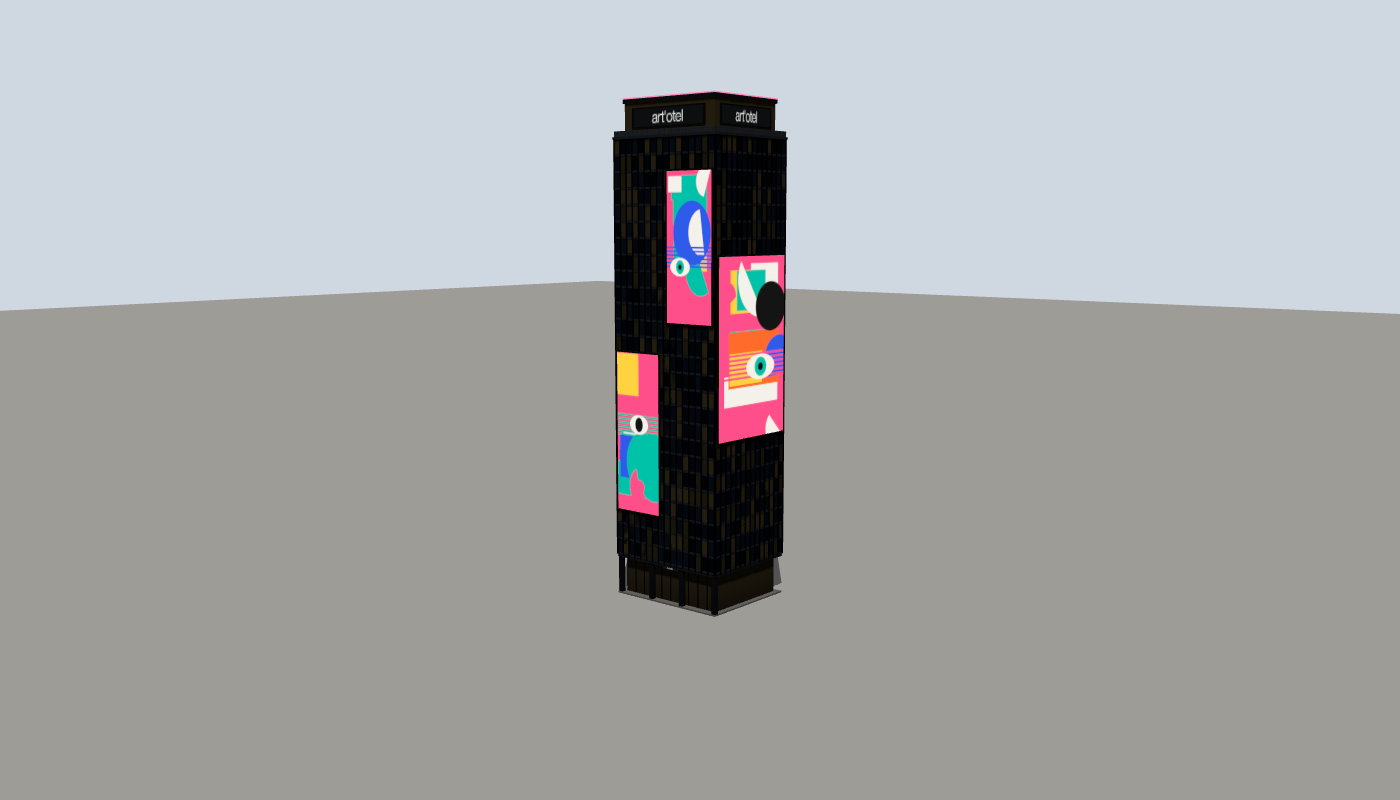
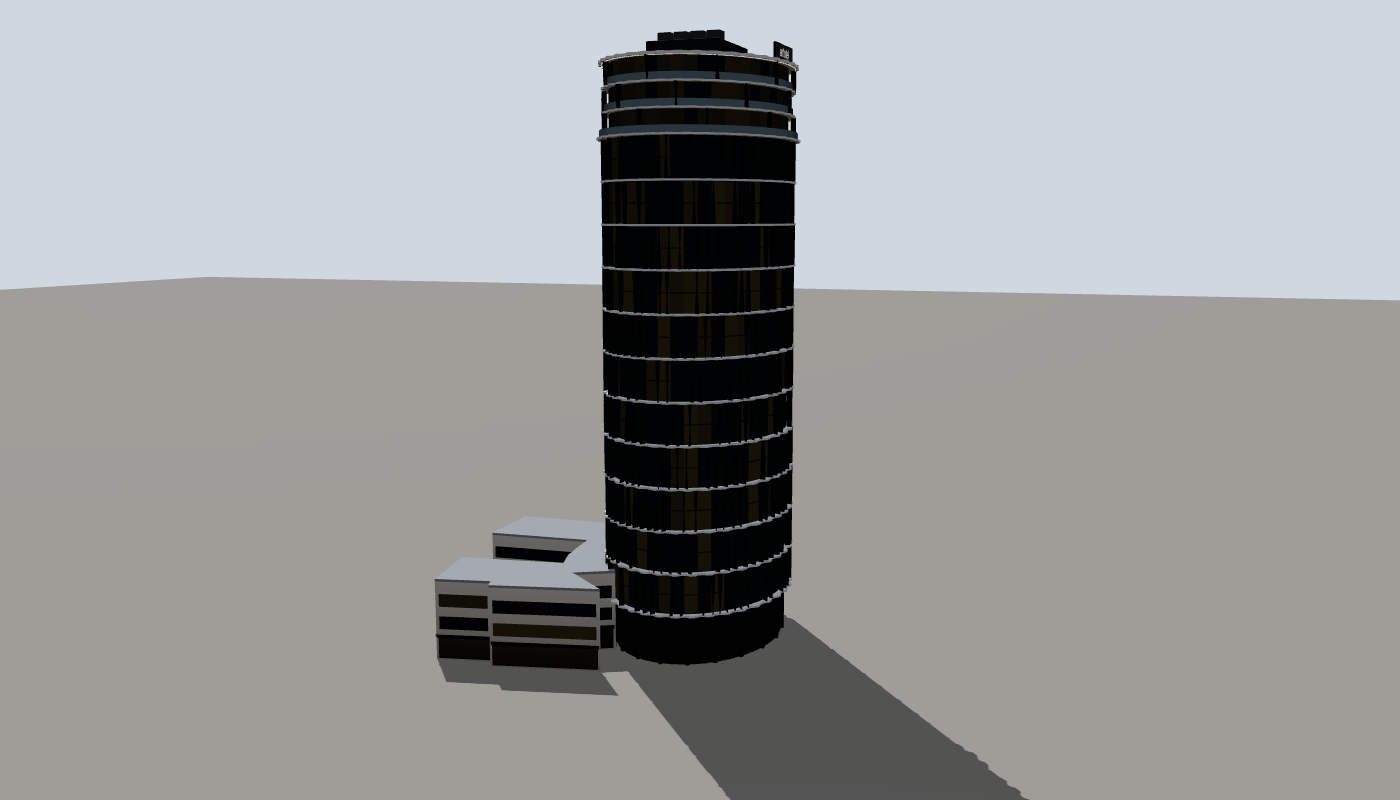
web: art'otel rebuilt as the real oval cogwheel tower (OSM footprint + podium wing, toothed shelves, twisted fins, lit at night)
Claude-Session: https://claude.ai/code/session_01QqxjMkKzJ4sVqYtr9ae61X

Changed region(s): [[0.3071, 0.0312, 0.7371, 1.0], [0.6143, 0.3438, 1.0, 0.4062], [0.0, 0.3438, 0.3686, 0.4062]]

diff --git a/apps/web/src/world/models/landmarks.ts b/apps/web/src/world/models/landmarks.ts
@@ -2,14 +2,15 @@
 // as a tiling texture, canvas signs). Each is recognisable from the street camera:
 //   XOYO        – Cowper St club: dark brick warehouse, black ground floor, big lit X O Y O letters, steel doors,
 //                 queue barriers on the pavement.
-//   art'otel    – Old St / Great Eastern St hotel tower: dark finned façade, huge bold art panels, lit crown sign.
+//   art'otel    – Old St / Great Eastern St: oval 26-storey "cogwheel" tower, toothed aluminium shelves, twisted
+//                 black fins, glazed top floors, crown sign, 3-storey podium wing (OSM footprint).
 //   Encode Hub  – 41 Pitfield St: converted Victorian brick building, sash windows, lit ENCODE HUB fascia band.
 //   Boxpark     – stacked black shipping containers, glazed shopfronts, upper terrace with lights, big sign.
 //   Old Street  – the roundabout island: sunken tube entrances with roundels, glass canopies, new entrance
 //                 pavilion, trees, cycle dock, digital screens.
 // Frame: origin at the footprint centre on the ground, street face toward +z, metres. Every model's name is a
 // stable `landmark-*` id (interiors / quick travel look the group up by name).
-import { Shape } from "three";
+import { BoxGeometry, ExtrudeGeometry, Shape, Vector2 } from "three";
 import { rng, type Rng } from "../../mock/rng";
 import { Kit, type HeroModel } from "./kit";
 import { label } from "./materials";
@@ -166,116 +167,161 @@ export function xoyo(): HeroModel {
 
 // ------------------------------------------------------------------------------------------------- art'otel
 
-function mural(seed: number, palette: string[]) {
-  return (c: CanvasRenderingContext2D, w: number, h: number) => {
-    const r = rng(seed);
-    c.fillStyle = palette[0];
-    c.fillRect(0, 0, w, h);
-    // big bold blocks
-    for (let i = 0; i < 7; i++) {
-      c.fillStyle = pick(r, palette);
-      const bw = w * (0.3 + r() * 0.6), bh = h * (0.08 + r() * 0.25);
-      c.fillRect(r() * (w - bw), r() * (h - bh), bw, bh);
-    }
-    // circles and half-moons
-    for (let i = 0; i < 5; i++) {
-      c.fillStyle = pick(r, palette);
-      c.beginPath();
-      const rr = w * (0.12 + r() * 0.3);
-      c.arc(r() * w, r() * h, rr, r() * Math.PI, r() * Math.PI + Math.PI * (1 + r()));
-      c.fill();
-    }
-    // stripes
-    c.fillStyle = pick(r, palette);
-    const sy = r() * h * 0.7;
-    for (let i = 0; i < 6; i++) c.fillRect(0, sy + i * h * 0.025, w, h * 0.012);
-    // the eye motif
-    const ex = w * (0.3 + r() * 0.4), ey = h * (0.25 + r() * 0.5), er = w * 0.22;
-    c.fillStyle = "#f6f2e8";
-    c.beginPath();
-    c.ellipse(ex, ey, er, er * 0.55, 0, 0, Math.PI * 2);
-    c.fill();
-    c.fillStyle = pick(r, palette.slice(1));
-    c.beginPath();
-    c.arc(ex, ey, er * 0.42, 0, Math.PI * 2);
-    c.fill();
-    c.fillStyle = "#111";
-    c.beginPath();
-    c.arc(ex, ey, er * 0.18, 0, Math.PI * 2);
-    c.fill();
-  };
+/** OSM way 1561019538 (27 levels): tower centre in contract coords (x east, z north). */
+export const ARTOTEL_CENTRE = { x: -615.0, z: 336.2 };
+/** OSM way 1561019539 (3 levels): the podium wing, contract offsets (east, north) from the tower centre. */
+const ARTOTEL_PODIUM: [number, number][] = [
+  [7.3, 24.3], [24.2, 28.2], [24.9, 26.2], [33.7, 28.1], [36.4, 15.2], [28.7, 14.4], [19.0, 12.9], [20.4, 8.2],
+  [21.0, 4.0], [21.6, -1.9], [39.7, -0.8], [40.1, -13.9], [17.9, -14.9], [19.4, -10.0], [12.6, -7.1], [13.8, -3.0],
+  [13.4, 2.3], [12.5, 7.4], [11.1, 11.4], [9.2, 14.2], [15.1, 17.5],
+];
+
+/** A box twisted about its own vertical axis (the tower's twisted aluminium fins). */
+function twistedFin(w: number, h: number, d: number, twist: number) {
+  const g = new BoxGeometry(w, h, d, 1, 3, 1);
+  const p = g.getAttribute("position");
+  for (let i = 0; i < p.count; i++) {
+    const a = twist * (p.getY(i) / h);
+    const x = p.getX(i), z = p.getZ(i);
+    p.setXYZ(i, x * Math.cos(a) - z * Math.sin(a), p.getY(i), x * Math.sin(a) + z * Math.cos(a));
+  }
+  g.computeVertexNormals();
+  return g;
 }
 
+/** Flat elliptical ring lying on y = 0 (thickness t upwards); the outer edge is toothed like a cog when teeth > 0. */
+function cogRing(rx: number, rz: number, out: number, inset: number, t: number, teeth: number, phase: number, depth: number) {
+  const s = new Shape();
+  const N = Math.max(96, teeth * 4);
+  for (let i = 0; i <= N; i++) {
+    const a = (i / N) * Math.PI * 2;
+    const tooth = teeth ? (Math.floor(((a + phase) / (Math.PI * 2)) * teeth * 2) % 2 === 0 ? depth : 0) : 0;
+    const x = Math.cos(a) * (rx + out + tooth), y = Math.sin(a) * (rz + out + tooth);
+    if (i === 0) s.moveTo(x, y);
+    else s.lineTo(x, y);
+  }
+  const hole = new Shape();
+  for (let i = 0; i <= 64; i++) {
+    const a = -(i / 64) * Math.PI * 2;
+    const x = Math.cos(a) * (rx - inset), y = Math.sin(a) * (rz - inset);
+    if (i === 0) hole.moveTo(x, y);
+    else hole.lineTo(x, y);
+  }
+  s.holes.push(hole);
+  return new ExtrudeGeometry(s, { depth: t, bevelEnabled: false, curveSegments: 1 }).rotateX(-Math.PI / 2);
+}
+
+/**
+ * art'otel London Hoxton (Squire & Partners, 2024), 1–3 Rivington St at Old St / Great Eastern St.
+ * A 26-storey cylinder (oval in plan, 27.5 × 37 m from OSM) read as a stack of rotated "cogwheels": every
+ * double-height band sits on a projecting aluminium shelf with a toothed edge, and twisted black aluminium fins
+ * run between the shelves in a syncopated rhythm (dense on the guest-room floors, sparse on the three glazed
+ * entertaining floors at the top). Double-height glazed lobby at the base, a three-storey pale podium wing to
+ * the east (OSM footprint), the art'otel name on the crown. ≈ 92 m.
+ * Local frame: origin at the tower centre, +x east, +z SOUTH (scene z): place it with rotation 0.
+ */
 export function artotel(): HeroModel {
   const k = new Kit();
   const r = rng(1931);
-  const W = 26, D = 22, base = 8.4, fh = 3.25, floors = 26;
-  const top = base + floors * fh; // ≈ 93 m
-  const CORE = "#1a1c21";
-  const PALETTE = ["#ff4f8b", "#ffd23f", "#2f5bea", "#00c2a8", "#ff6b2b", "#141414", "#f4f1ea"];
-  // podium: recessed glass lobby under the tower overhang
-  k.slab("solid", -W / 2, W / 2, 0, 0.3, -D / 2, D / 2, "#7d7a74");
-  k.slab("glass", -W / 2 + 1.2, W / 2 - 1.2, 0.3, base - 0.6, -D / 2 + 1.2, D / 2 - 1.6, "#5a5240");
-  for (let x = -W / 2 + 1.2; x <= W / 2 - 1.2; x += 2.4) k.box("metal", 0.12, base - 0.9, 0.14, x, (base - 0.3) / 2 + 0.15, D / 2 - 1.55, "#2c2f35");
-  for (const x of [-W / 2 + 0.5, -4, 4, W / 2 - 0.5]) k.box("solid", 0.9, base, 0.9, x, base / 2, D / 2 - 0.6, CORE);
-  k.slab("solid", -W / 2, W / 2, base - 0.6, base, -D / 2, D / 2, "#24272d");
-  k.slab("glow", -5, 5, base - 0.66, base - 0.6, D / 2 - 3, D / 2 - 0.3, "#ffe2b8"); // soffit lighting
-  k.sign("artotel-door", 4.2, 0.7, [0, base - 1.15, D / 2 - 1.5], [512, 86], (c, w, h) => {
-    c.fillStyle = "#141414";
-    c.fillRect(0, 0, w, h);
-    label(c, "art'otel", w / 2, h / 2 + 2, w - 30, 64, "#ffffff", "300 {px}px 'Helvetica Neue', Arial, sans-serif");
-  });
-  // tower: dark core with glass bays, floor bands and vertical fins on all four faces
-  k.slab("solid", -W / 2, W / 2, base, top, -D / 2, D / 2, CORE);
-  const GL = ["#18222c", "#1d2833", "#22303c", "#2a3542", "#4e4834", "#5d543a"];
-  const face = (len: number, half: number, ry: number) =>
-    k.at(0, 0, 0, ry, () => {
-      const bays = Math.round(len / 1.6);
-      const bw = len / bays;
-      for (let f = 0; f < floors; f++) {
-        const y = base + f * fh;
-        k.slab("solid", -len / 2, len / 2, y - 0.08, y + 0.32, half, half + 0.06, "#2e3138");
-        for (let b = 0; b < bays; b++) {
-          const x = -len / 2 + (b + 0.5) * bw;
-          k.slab("glass", x - bw / 2 + 0.08, x + bw / 2 - 0.08, y + 0.4, y + fh - 0.12, half, half + 0.03, pick(r, GL));
-        }
-      }
-      for (let b = 0; b <= bays; b++) k.slab("metal", -len / 2 + b * bw - 0.07, -len / 2 + b * bw + 0.07, base, top, half, half + 0.28, "#2a2d33");
-    });
-  face(W, D / 2, 0);
-  face(W, D / 2, Math.PI);
-  face(D, W / 2, Math.PI / 2);
-  face(D, W / 2, -Math.PI / 2);
-  // the art: three giant panels across floors (front + east side), framed, always vivid
-  const panel = (key: string, seed: number, x0: number, x1: number, y0: number, y1: number, z: number, ry: number) =>
-    k.at(0, 0, 0, ry, () => {
-      k.slab("solid", x0 - 0.3, x1 + 0.3, y0 - 0.3, y1 + 0.3, z - 0.05, z + 0.12, "#0f1013");
-      const px = 512, py = Math.min(1024, Math.round((px * (y1 - y0)) / (x1 - x0)));
-      k.sign(key, x1 - x0, y1 - y0, [(x0 + x1) / 2, (y0 + y1) / 2, z + 0.14], [px, py], mural(seed, PALETTE), true);
-    });
-  panel("artotel-mural-a", 3, -W / 2 + 0.6, -1.2, base + fh * 3, base + fh * 13, D / 2 + 0.3, 0);
-  panel("artotel-mural-b", 8, 1.2, W / 2 - 0.6, base + fh * 15, base + fh * 24, D / 2 + 0.3, 0);
-  panel("artotel-mural-c", 21, -D / 2 + 0.6, D / 2 - 0.6, base + fh * 8, base + fh * 19, W / 2 + 0.3, Math.PI / 2);
-  // crown: set-back glazed top, lit rim, sign on two faces, rooftop bar
-  k.slab("solid", -W / 2 - 0.3, W / 2 + 0.3, top, top + 0.5, -D / 2 - 0.3, D / 2 + 0.3, "#2a2d33");
-  k.slab("glass", -W / 2 + 1.5, W / 2 - 1.5, top + 0.5, top + 7, -D / 2 + 1.5, D / 2 - 1.5, "#5d543a");
-  k.slab("solid", -W / 2 + 1.2, W / 2 - 1.2, top + 7, top + 7.8, -D / 2 + 1.2, D / 2 - 1.2, CORE);
-  k.slab("glow", -W / 2 + 1.15, W / 2 - 1.15, top + 7.8, top + 8.05, -D / 2 + 1.15, D / 2 - 1.15, "#ff4f8b");
-  for (const x of [-W / 2 - 0.1, W / 2 + 0.1]) k.slab("metal", x - 0.03, x + 0.03, top + 0.5, top + 1.6, -D / 2, D / 2, "#9aa1a8");
-  for (const z of [-D / 2 - 0.1, D / 2 + 0.1]) k.slab("metal", -W / 2, W / 2, top + 0.5, top + 1.6, z - 0.03, z + 0.03, "#9aa1a8");
-  const crownSign = (z: number, ry: number, len: number) =>
-    k.at(0, 0, 0, ry, () => {
-      k.slab("solid", -len * 0.36, len * 0.36, top + 2.0, top + 6.0, z - 0.1, z + 0.12, "#0d0e10");
-      k.sign("artotel-crown", len * 0.68, 3.4, [0, top + 4.0, z + 0.14], [1024, 200], (c, w, h) => {
+  const RX = 13.8, RZ = 18.5;
+  const LOBBY = 8.0, BAND = 6.6, BANDS = 11, TOPH = 11.4;
+  const topY = LOBBY + BANDS * BAND; // 80.6
+  const H = topY + TOPH; // 92
+  const ALU = "#e2e4e7", FIN = "#1e1f23", CORE = "#15181d";
+  const GLASS = ["#2a3540", "#26313d", "#2e3944", "#232d38", "#6b6048", "#7a6b4c", "#2b3743"];
+  const ell = (a: number, s = 1): [number, number, number] => {
+    const x = Math.cos(a) * RX * s, z = Math.sin(a) * RZ * s;
+    return [x, z, Math.atan2(Math.cos(a) / RX, Math.sin(a) / RZ)];
+  };
+  /** Glass facets around the oval between y0 and y1 (at scale s of the oval). */
+  const glazing = (y0: number, y1: number, s: number, n: number, palette: string[]) => {
+    for (let i = 0; i < n; i++) {
+      const a0 = (i / n) * Math.PI * 2, a1 = ((i + 1) / n) * Math.PI * 2;
+      const [x0, z0] = ell(a0, s), [x1, z1] = ell(a1, s);
+      const yaw = ell((a0 + a1) / 2, s)[2];
+      const w = Math.hypot(x1 - x0, z1 - z0) + 0.04;
+      k.box("glass", w, y1 - y0, 0.08, (x0 + x1) / 2, (y0 + y1) / 2, (z0 + z1) / 2, pick(r, palette), [0, yaw, 0]);
+    }
+  };
+  // solid core so the facets never show daylight through the joins
+  k.cyl("solid", 1, 1, H - LOBBY, 48, [0, (H + LOBBY) / 2, 0], CORE, [0, 0, 0], [RX * 0.96, 1, RZ * 0.96]);
+
+  // lobby: double-height glazing set back behind black columns, warm glow line under the first shelf
+  glazing(0.15, LOBBY - 0.3, 0.9, 40, ["#5d5441", "#6b5f45", "#4f4a3c"]);
+  for (let i = 0; i < 20; i++) {
+    const [x, z] = ell((i / 20) * Math.PI * 2, 0.97);
+    k.cyl("metal", 0.32, 0.32, LOBBY, 10, [x, LOBBY / 2, z], "#1b1c1f");
+  }
+  k.add("glow", cogRing(RX * 0.9, RZ * 0.9, 0.05, 0.4, 0.06, 0, 0, 0), "#ffd9a8", [0, LOBBY - 0.45, 0]);
+
+  // the cogwheel bands
+  const fin = (h: number, twist: number) => twistedFin(0.14, h, 0.85, twist);
+  for (let b = 0; b < BANDS; b++) {
+    const y = LOBBY + b * BAND;
+    const phase = b * 0.37;
+    k.add("solid", cogRing(RX, RZ, 1.0, 0.6, 0.55, 36, phase, 0.55), ALU, [0, y, 0]);
+    k.add("solid", cogRing(RX, RZ, 0.7, 0.55, 0.06, 0, 0, 0), "#3a3d42", [0, y - 0.06, 0]);
+    glazing(y + 0.55, y + BAND, 1, 44, GLASS);
+    k.add("solid", cogRing(RX, RZ, 0.08, 0.2, 0.2, 0, 0, 0), "#2a2d33", [0, y + BAND / 2, 0]); // mid floor line
+    // fins in a syncopated rhythm: clusters with uneven gaps, twist direction alternating per band
+    let a = phase;
+    while (a < phase + Math.PI * 2 - 0.05) {
+      const [x, z, yaw] = ell(a, 1.045);
+      const tw = (b % 2 ? 1 : -1) * (0.6 + r() * 0.5);
+      k.add("solid", fin(BAND - 0.36, tw), FIN, [x, y + 0.32 + (BAND - 0.36) / 2, z], [0, yaw, 0]);
+      a += r() < 0.3 ? 0.2 + r() * 0.12 : 0.07 + r() * 0.05;
+    }
+  }
+
+  // three entertaining floors on top: near-continuous glass, few fins, glass balustrades on the shelves
+  for (let f = 0; f < 3; f++) {
+    const y = topY + f * (TOPH / 3);
+    const out = f === 0 ? 1.4 : 0.6;
+    k.add("solid", cogRing(RX, RZ, out, 0.6, 0.3, 36, 4.1 + f, 0.4), ALU, [0, y, 0]);
+    glazing(y + 0.3, y + TOPH / 3, 0.985, 44, ["#5d5441", "#6b5f45", "#2a3542", "#5a5a4c"]);
+    k.add("glass", cogRing(RX, RZ, out - 0.05, -(out - 0.15), 1.1, 0, 0, 0), "#9fb7c2", [0, y + 0.3, 0]);
+    for (let i = 0; i < 9; i++) {
+      const [x, z, yaw] = ell((i / 9) * Math.PI * 2 + f, 1.045);
+      k.add("solid", fin(TOPH / 3 - 0.3, 0.9), FIN, [x, y + 0.3 + (TOPH / 3 - 0.3) / 2, z], [0, yaw, 0]);
+    }
+  }
+  // roof: parapet cog, lit rim, plant enclosure, aviation lamp
+  k.add("solid", cogRing(RX, RZ, 0.9, 0.6, 0.45, 36, 7.3, 0.5), ALU, [0, H, 0]);
+  k.add("glow", cogRing(RX, RZ, 0.95, -0.85, 0.08, 0, 0, 0), "#ffe6c4", [0, H - 0.1, 0]);
+  k.cyl("solid", 1, 1, 0.3, 40, [0, H + 0.15, 0], "#3a3d42", [0, 0, 0], [RX * 0.95, 1, RZ * 0.95]);
+  k.rbox("solid", 12, 3.2, 14, 0, H + 1.9, -1, "#2a2d33", 0.2);
+  for (let i = 0; i < 4; i++) k.rbox("solid", 2.2, 1.6, 2.2, -4 + i * 2.7, H + 4.3, -4, "#4a4e55", 0.1);
+  k.box("glow", 0.35, 0.35, 0.35, 0, H + 5.3, -1, "#ff2a1a");
+  // the name on the crown: south face (Old St junction) and west face (toward the roundabout)
+  for (const [a, key] of [[Math.PI / 2, "s"], [Math.PI, "w"]] as const) {
+    const [x, z, yaw] = ell(a, 1.0);
+    k.at(x, 0, z, yaw, () => {
+      k.slab("solid", -4.6, 4.6, H + 0.6, H + 3.0, -0.3, 0.05, "#0d0e10");
+      k.sign(`artotel-crown-${key}`, 9.0, 2.2, [0, H + 1.8, 0.07], [1024, 250], (c, w, h) => {
         c.fillStyle = "#0d0e10";
         c.fillRect(0, 0, w, h);
-        label(c, "art'otel", w / 2, h / 2 + 6, w - 60, 170, "#ffffff", "300 {px}px 'Helvetica Neue', Arial, sans-serif");
+        label(c, "art'otel", w / 2, h / 2 + 8, w - 60, 200, "#ffffff", "300 {px}px 'Helvetica Neue', Arial, sans-serif");
       });
     });
-  crownSign(D / 2 - 1.4, 0, W);
-  crownSign(W / 2 - 1.4, Math.PI / 2, D);
-  for (let i = 0; i < 6; i++) k.rbox("solid", 1.2, 0.9, 1.2, -W / 2 + 3 + i * 4, top + 0.95, -D / 2 + 2.6, "#3f6b35", 0.3); // roof planters
-  k.box("glow", 0.4, 0.4, 0.4, 0, top + 8.4, 0, "#ff2a1a"); // aviation lamp
+  }
+
+  // podium wing (3 storeys): pale stone, ribbon windows, dark ground-floor shopfront line
+  const pod = new Shape(ARTOTEL_PODIUM.map(([x, z]) => new Vector2(x, z)));
+  const PH = 12.6;
+  k.add("solid", new ExtrudeGeometry(pod, { depth: PH, bevelEnabled: false }).rotateX(-Math.PI / 2), "#d7d3ca", [0, 0, 0]);
+  k.add("solid", new ExtrudeGeometry(pod, { depth: 0.4, bevelEnabled: false }).rotateX(-Math.PI / 2), "#9aa0a6", [0, PH, 0]);
+  const n = ARTOTEL_PODIUM.length;
+  for (let i = 0; i < n; i++) {
+    const [ax, an] = ARTOTEL_PODIUM[i], [bx, bn] = ARTOTEL_PODIUM[(i + 1) % n];
+    const az = -an, bz = -bn; // north → scene -z
+    const len = Math.hypot(bx - ax, bz - az);
+    if (len < 2.5) continue;
+    const yaw = -Math.atan2(bz - az, bx - ax);
+    const cx = (ax + bx) / 2, cz = (az + bz) / 2;
+    k.box("glass", len - 0.8, 3.2, 0.3, cx, 1.9, cz, pick(r, ["#5d5441", "#4f4a3c", "#22303c"]), [0, yaw, 0]);
+    k.box("solid", len - 0.4, 0.5, 0.36, cx, 3.8, cz, "#1b1c1f", [0, yaw, 0]);
+    for (const y of [6.0, 9.6]) k.box("glass", len - 1.2, 2.0, 0.3, cx, y, cz, pick(r, GLASS), [0, yaw, 0]);
+  }
   return k.model("landmark-artotel", { ao: 4 });
 }
 

diff --git a/apps/web/src/world/modules/HeroLandmarks.tsx b/apps/web/src/world/modules/HeroLandmarks.tsx
@@ -16,6 +16,7 @@ import { useSim } from "../../state/store";
 import { useWorld } from "../context";
 import { heroGroup } from "../hero";
 import { heroModel } from "../models";
+import { ARTOTEL_CENTRE } from "../models/landmarks";
 import { setHeroNight } from "../models/materials";
 
 /** Fallback contract positions (x east, z north) when neither the map nor resolveLandmarks knows the place. */
@@ -45,6 +46,11 @@ function place(map: CityMap): Placed[] {
     const xoyoStore = spot.key === "xoyo" ? map.stores.find((s) => /xoyo/i.test(s.name) || s.id === "c4") : undefined;
     const bid = lm?.buildingId ?? xoyoStore?.buildingId ?? (spot.key === "xoyo" ? "b72" : undefined);
     const b = bid ? map.buildings.find((x) => x.id === bid) : undefined;
+    // art'otel is modelled on its OSM footprint in true orientation: tower centre, no turn, no fit
+    if (spot.key === "artotel") {
+      const [ax, az] = toScene(ARTOTEL_CENTRE.x, ARTOTEL_CENTRE.z);
+      return { name: spot.name, x: ax, z: az, rot: 0, scale: [1, 1, 1] as [number, number, number] };
+    }
     const cx = b?.x ?? lm?.x ?? spot.x;
     const cz = b?.z ?? lm?.z ?? spot.z;
     const [x, z] = toScene(cx, cz);
